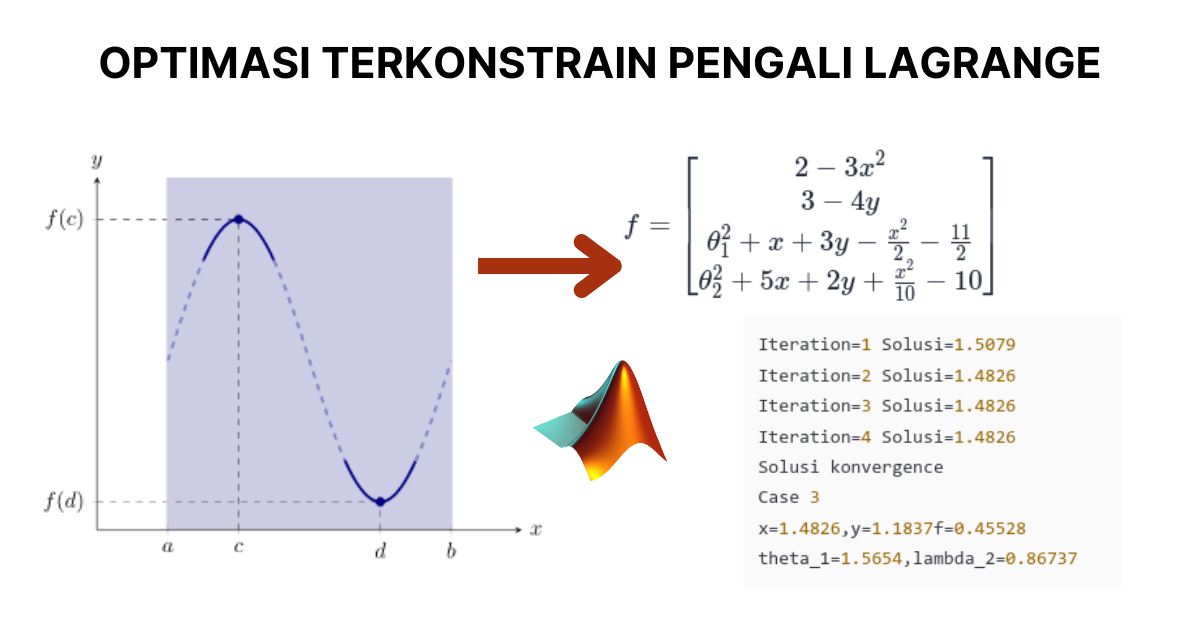
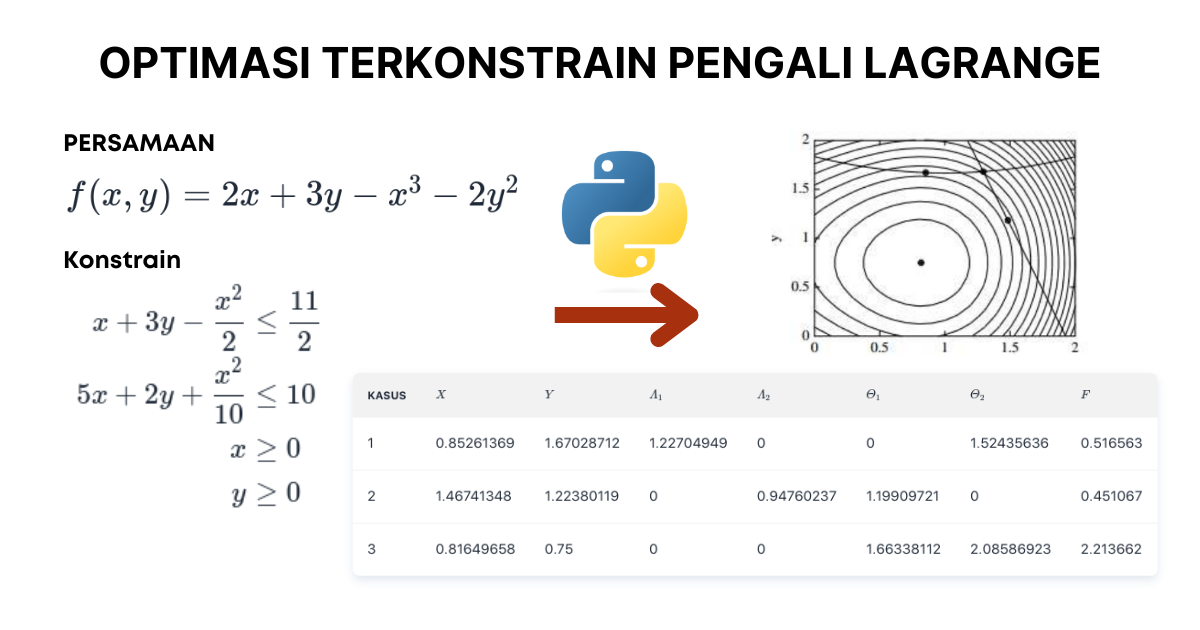
revisit optimasi terkonstrain

Changed region(s): [[0.0308, 0.2111, 0.9558, 0.9048], [0.8942, 0.754, 0.9558, 0.8143]]

diff --git a/_posts/optimasi-terkonstrain-pengali-lagrange.md b/_posts/optimasi-terkonstrain-pengali-lagrange.md
@@ -1,224 +1,205 @@
 ---
-title: 'Optimasi Terkonstrain dengan Pengali Lagrange Pada MATLAB'
+title: 'Optimasi Terkonstrain dengan Pengali Lagrange Pada Python'
 desc: 'Implementasi metode pengali lagrange dalam permasalahan optimasi terkonstrain dengan manipulasi fungsi objektif dan matriks jacobian menggunakan bahasa pemrograman MATLAB'
 tags: 'Computational Physics'
 coverImage: '/optimasi-terkonstrain/cover.png'
-date: '2023-05-19'
+date: '2023-05-29'
 author:
-  name: Naufal Dhyaudin Hibatulah
+  name: Jhagas Hana Winaya
 ogImage:
   url: '/optimasi-terkonstrain/cover.png'
 ---
 
+Optimasi terkonstrain adalah suatu metode yang digunakan untuk mencari nilai maksimum atau minimum suatu fungsi dengan mempertimbangkan adanya batasan atau kendala pada variabel-variabel yang terlibat. Batasan ini dapat berupa persamaan atau ketidaksetaraan.
+
+Salah satu teknik yang dapat digunakan dalam optimasi terkonstrain adalah metode pengali Lagrange. Metode ini melibatkan penggunaan suatu fungsi baru yang disebut fungsi Lagrange yang menggabungkan fungsi objektif dan batasan sebagai suatu kesatuan. Kemudian fungsi Lagrange tersebut dioptimalkan untuk mencari nilai optimal variabel-variabel yang terlibat.
+
+Dalam metode pengali Lagrange, terdapat suatu variabel baru yang disebut pengali Lagrange. Pengali Lagrange ini digunakan untuk mempertimbangkan batasan dalam fungsi Lagrange. Dengan cara ini, kita dapat menentukan nilai optimal dari variabel-variabel yang terlibat yang memenuhi batasan yang ada. Dalam praktiknya, metode pengali Lagrange dapat digunakan dalam berbagai masalah optimasi terkonstrain, seperti optimasi ekonomi, optimasi teknik, dan sebagainya.
+
 ## Persoalan
 
-Diberikan suatu fungsi $f(x,y)=2x+3y-x^3-2y^2$ dan beberapa konstrain yang harus terpenuhi, yaitu
+Diberikan suatu fungsi $f(x,y)=2x+3y-x^3-2y^2$ dan beberapa pertidaksamaan konstrain yang harus terpenuhi, yaitu
 
 $$
-x+3y-\frac{x^2}{2}\le\frac{11}{2}
-$$
+\begin{align}
+x+3y-\frac{x^2}{2} &\le \frac{11}{2}\\
 
-$$
-5x+2y+\frac{x^2}{10}\le10
+5x+2y+\frac{x^2}{10} &\le 10\\
+x &\ge 0\\
+y &\ge 0\\
+\end{align}
 $$
 
 Cari titik minimum fungsi tersebut pada konstrain yang diberikan.
 
-## Pembentukan Lagrangian dan Fungsi Objektif
+## ****Pembentukan Lagrangian Dari Fungsi Objektif Persoalan****
 
-Dalam kasus ini terdapat 2 *********************inequality constrain********************* sehingga konstrain tersebut perlu diubah menjadi ******************equality constrain******************. Kita bisa menganggap ada satu variabel pada tiap konstrain yang menyebabkan **********inequality********** tersebut, yaitu $\theta_1^2$ dan $\theta_2^2$. Dengan demikian, kedua konstrain tersebut menjadi
-
-$$
-\theta_1^2+x+3y-\frac{x^2}{2}-\frac{11}{2}=0
-$$
+Dalam kasus ini terdapat 2 *inequality constrain* (batas pertidaksamaan) dari persamaan 1 dan persamaan 2 sehingga batasan tersebut perlu diubah menjadi *equality constrain* (batas persamaan). Kita bisa menganggap ada satu variabel pada tiap batasan yang menyebabkan adanya pertidaksamaan tersebut, yaitu $\theta_1^2$ dan $\theta_2^2$. Dengan demikian, kedua batasan tersebut menjadi
 
 $$
-\theta_2^2+5x+2y+\frac{x^2}{10}-10=0
+\begin{align}
+\theta_1^2+x+3y-\frac{x^2}{2}-\frac{11}{2} &= 0\\
+
+\theta_2^2+5x+2y+\frac{x^2}{10}-10 &= 0
+\end{align}
 $$
 
-Lagrangian fungsi dengan kedua konstrain tersebut adalah
+Persamaan Lagrangian dari fungsi objektif serta persamaan 5 dan persamaan 6 adalah
 
 $$
+\begin{align}
 L=(2x+3y-x^3-2y^2)+\lambda_1(\theta_1^2+x+3y-\frac{x^2}{2}-\frac{11}{2})+\lambda_2(\theta_2^2+5x+2y+\frac{x^2}{10}-10)
+\end{align}
 $$
 
-Dalam rangka mendapatkan nilai optimum masing-masing parameter, turunan pertama lagrangian pada setiap parameter harus bernilai nol.
+Untuk mendapatkan nilai optimum masing-masing parameter, turunan parsial pertama dari persamaan 7 pada setiap parameter harus bernilai nol
 
 $$
-\frac{\partial L}{\partial x}=2-3x^2+\lambda_1(1-x)+\lambda_2(5+\frac{x}{5})=0
+\begin{align}
+\frac{\partial L}{\partial x} &= 2-3x^2+\lambda_1(1-x)+\lambda_2(5+\frac{x}{5}) = 0\\
+
+\frac{\partial L}{\partial y} &= 3-4y+3\lambda_1+2\lambda_2 = 0\\
+
+\frac{\partial L}{\partial \lambda_1} &= \theta_1^2+x+3y-\frac{x^2}{2}-\frac{11}{2}=0\\
+
+\frac{\partial L}{\partial \lambda_2} &= \theta_2^2+5x+2y+\frac{x^2}
+{10}-10=0\\
+
+\frac{\partial L}{\partial \theta_1} &= 2{\lambda_1}{\theta_1}=0\\
+
+\frac{\partial L}{\partial \theta_2} &= 2{\lambda_2}{\theta_2}=0
+\end{align}
 $$
 
-$$
-\frac{\partial L}{\partial y}=3-4y+3\lambda_1+2\lambda_2=0
-$$
+Pada persamaan 12 dan persamaan 13, kita bisa mengasumsikan pembuat nol persamaan-persamaan tersebut dengan beberapa kemungkinan kasus yang bisa diselesaikan dengan algoritma pemrograman
 
-$$
-\frac{\partial L}{\partial \lambda_1}=\theta_1^2+x+3y-\frac{x^2}{2}-\frac{11}{2}=0
-$$
+### Kasus Pertama
 
-$$
-\frac{\partial L}{\partial \lambda_2}=\theta_2^2+5x+2y+\frac{x^2}{10}-10=0
-$$
-
-$$
-\frac{\partial L}{\partial \theta_1}=2{\lambda_1}{\theta_1}=0
-$$
-
-$$
-\frac{\partial L}{\partial \theta_2}=2{\lambda_2}{\theta_2}=0
-$$
-
-Pada persamaan $2{\lambda_1}{\theta_1}=0$ dan $2{\lambda_2}{\theta_2}=0$, kita bisa mengasumsikan pembuat nol masing-masing *********statement********* dengan beberapa kasus, yaitu $\theta_1=\theta_2=0$, $\theta_1=\lambda_2=0$, $\lambda_1=\theta_2=0$, dan $\lambda_1=\lambda_2=0$.
-
-Fungsi objektif dalam penyelesaian dengan optimasi terkonstrain terbentuk dari 6 persamaan di atas. Pada kasus pertama, fungsi objektif dapat dibentuk dengan mensubstitusikan $\theta_1=\theta_2=0$ sehingga
-
-$$
-f=\begin{bmatrix}{2-3x^2+\lambda_1(1-x)+\lambda_2(5+\frac{x}{5})}\\{3-4y+3\lambda_1+2\lambda_2}\\{x+3y-\frac{x^2}{2}-\frac{11}{2}}\\{5x+2y+\frac{x^2}{10}-10}\end{bmatrix}
-$$
-
-Pada kasus kedua, fungsi objektif dapat dibentuk dengan mensubstitusikan $\theta_1=\lambda_2=0$ sehingga
+Pada kasus pertama, fungsi objektif dapat dibentuk dengan mensubstitusikan $\theta_1=\lambda_2=0$ pada persamaan 8-11 sehingga
 
 $$
 f=\begin{bmatrix}{2-3x^2+\lambda_1(1-x)}\\{3-4y+3\lambda_1}\\{x+3y-\frac{x^2}{2}-\frac{11}{2}}\\{\theta_2^2+5x+2y+\frac{x^2}{10}-10}\end{bmatrix}
 $$
 
-Pada kasus ketiga, fungsi objektif dapat dibentuk dengan mensubstitusikan $\lambda_1=\theta_2=0$ sehingga
+yang didefinisikan dengan fungsi objektif pada Python dengan
+
+```python
+def funcobj(x):
+    a = 2 - 3*x[0]**2 + x[2] * (1-x[0])
+    b = 3 - 4*x[1] + 3*x[2]
+    c = x[0] + 3*x[1] - ((x[0]**2)/2) - 11/2
+    d = x[3]**2 + 5*x[0] + 2*x[1] + (x[0]**2)/10 - 10
+
+    return np.array([a, b, c, d])
+```
+
+Di mana `x[0]` adalah $x$, `x[1]` adalah $y$, `x[2]` adalah $\lambda_1$ dan yang terakhir `x[3]` adalah $\theta_2$. Sehingga urutan indeks keluaran dari pemrograman yang telah dilakukan akan sama dengan indeks yang telah disebutkan sebelumnya.
+
+### Kasus Kedua
+
+Pada kasus ketiga, fungsi objektif dapat dibentuk dengan mensubstitusikan $\lambda_1=\theta_2=0$ pada persamaan 8-11 sehingga
 
 $$
 f=\begin{bmatrix}{2-3x^2+\lambda_2(5+\frac{x}{5})}\\{3-4y+2\lambda_2}\\{\theta_1^2+x+3y-\frac{x^2}{2}-\frac{11}{2}}\\{5x+2y+\frac{x^2}{10}-10}\end{bmatrix}
 $$
 
-Terakhir, pada kasus ketiga, fungsi objektif dapat dibentuk dengan mensubstitusikan $\lambda_1=\lambda_2=0$ sehingga
+```python
+def funcobj(x):
+    a = 2 - 3*x[0]**2 + x[2] * ( 5 - x[0]/5 )
+    b = 3 - 4*x[1] + 2*x[2]
+    c = x[3]**2 + x[0] + 3*x[1] - ((x[0]**2)/2) - 11/2
+    d = 5*x[0] + 2*x[1] + (x[0]**2)/10 - 10
+
+    return np.array([a, b, c, d])
+```
+
+Di mana `x[0]` adalah $x$, `x[1]` adalah $y$, `x[2]` adalah $\lambda_2$ dan yang terakhir `x[3]` adalah $\theta_1$. Sehingga urutan indeks keluaran dari pemrograman yang telah dilakukan akan sama dengan indeks yang telah disebutkan sebelumnya.
+
+### Kasus Ketiga
+
+Pada kasus ketiga, fungsi objektif dapat dibentuk dengan mensubstitusikan $\lambda_1=\lambda_2=0$ pada persamaan 8-11 sehingga
 
 $$
 f=\begin{bmatrix}{2-3x^2}\\{3-4y}\\{\theta_1^2+x+3y-\frac{x^2}{2}-\frac{11}{2}}\\{\theta_2^2+5x+2y+\frac{x^2}{10}-10}\end{bmatrix}
 $$
 
-## Penyelesaian dengan Algoritma Pemrograman
+```python
+def funcobj(x):
+    a = 2 - 3*x[0]**2
+    b = 3 - 4*x[1]
+    c = x[2]**2 + x[0] + 3*x[1] - ((x[0]**2)/2) - 11/2
+    d = x[3]**2 + 5*x[0] + 2*x[1] + (x[0]**2)/10 - 10
 
-Implementasi keempat fungsi objektif tersebut ke dalam source code adalah dengan mendefinisikan *********function funcobj(X)********* yang menerima parameter X. Untuk $\theta_1=\theta_2=0$,
-
-```matlab
-function f=funcobj(X)
-f = [(2-3*X(1)^2+X(3)*(1-X(1))+X(4)*(5+X(1)/5));(3-4*X(2)+3*X(3)+2*X(4));
-    (X(1)+3*X(2)-X(1).^2/2-5.5);(5*X(1)+2*X(2)+X(1).^2/10-10)];
-end
+    return np.array([a, b, c, d])
 ```
 
-Untuk $\theta_1=\lambda_2=0$,
+Di mana `x[0]` adalah $x$, `x[1]` adalah $y$, `x[2]` adalah $\theta_1$ dan yang terakhir `x[3]` adalah $\theta_2$. Sehingga urutan indeks keluaran dari pemrograman yang telah dilakukan akan sama dengan indeks yang telah disebutkan sebelumnya.
 
-```matlab
-function f=funcobj(X)
-f = [(2-3*X(1)^2+X(3)*(1-X(1)));(3-4*X(2)+3*X(3));
-    (X(1)+3*X(2)-X(1).^2/2-5.5);(X(4)+5*X(1)+2*X(2)+X(1).^2/10-10)];
-end
+## Program Untuk Menyelesaikan Permasalahan Optimasi Terkonstrain
+
+### Penyiapan Awal
+
+Untuk melakukan pemrograman, didefinisikan banyak variabel yang belum diketahui pada `nvar` sebanyak 4 variabel yang belum diketahui. Setelah itu kita masukkan `1` sebagai nilai awal dari variabel yang belum diketahui. Di sini kita akan melakukan **maksimal** 30 iterasi, apabila nilai keluaran masih lebih besar dari toleransi sebesar `1e-6`.
+
+```python
+nvar = 4
+x = np.zeros([nvar, nvar])
+x[0,:] = [1, 1, 1, 1]
+
+niter=30
+tol=1e-6
 ```
 
-Untuk $\lambda_1=\theta_2=0$,
+### Fungsi Matriks Jacobian
 
-```matlab
-function f=funcobj(X)
-f = [(2-3*X(1)^2+X(4)*(5+X(1)/5));(3-4*X(2)+2*X(4));
-    (X(3)+X(1)+3*X(2)-X(1).^2/2-5.5);(5*X(1)+2*X(2)+X(1).^2/10-10)];
-end
+Dibuat fungsi Python `jacobian` yang menghitung matriks Jacobian dari vektor masukan yang diberikan, menggunakan metode selisih. Vektor masukan diteruskan ke fungsi objektif `funcobj` yang disesuaikan dengan masing-masing kasus, yang akan mengembalikan vektor dengan ukuran yang sama dengan vektor masukan. Matriks Jacobian dihitung secara numerik dengan mengevaluasi fungsi pada setiap komponen vektor masukan, kemudian menghitung turunan terhadap komponen tersebut menggunakan ukuran selisih langkah `h`. Matriks hasilnya dikembalikan sebagai daftar dua elemen: nilai fungsi pada vektor masukan (`f0`), dan matriks Jacobian (`jac`) itu sendiri.
+
+```python
+def jacobian(x):
+    h = 1.0e-4
+    n = x.shape
+    jac = np.zeros([n[0], n[0]])
+    f0 = funcobj(x)
+
+    for i in range(n[0]):
+        temp = x[i]
+        x[i] = temp + h
+        f1 = funcobj(x)
+        x[i] = temp
+        jac[:,i] = (f1 - f0)/h
+
+    return [f0, jac]
 ```
 
-Untuk $\lambda_1=\lambda_2=0$,
+### Iterasi Utama
 
-```matlab
-function f=funcobj(X)
-f = [(2-3*X(1)^2);(3-4*X(2));
-    (X(3)+X(1)+3*X(2)-X(1).^2/2-5.5);(X(4)+5*X(1)+2*X(2)+X(1).^2/10-10)];
-end
-```
+Kode dibawah melakukan proses iteratif untuk menyelesaikan sistem persamaan menggunakan matriks Jacobian. Kode ini diinisialisasi dengan loop yang mengulang dari rentang `0` hingga `niter-1`. Dalam setiap iterasi, matriks Jacobian dihitung menggunakan fungsi `jacobian()`, dan kemudian digunakan untuk memecahkan vektor solusi `dx`. Vektor solusi baru kemudian dikurangi dari yang sebelumnya dan diteruskan ke `x[i+1,:]`. Kode kemudian memeriksa konvergensi dengan mengukur selisih absolut antara vektor solusi baru dan lama, dan jika selisihnya kurang dari nilai toleransi yang telah ditetapkan sebelumnya, kode keluar dari *loop* dan mencetak solusi yang konvergen. Jika tidak, vektor solusi baru ditambahkan ke matriks x menggunakan np.vstack().
 
-Metode optimasi terkonstrain dilakukan pada ************source code************ utama dengan memanggil ******************function jacobian(X)****************** yang menerima parameter X dan mengembalikan parameter **f0** dan matriks ***jac***. Kedua parameter tersebut akan di-*******passing******* ke dalam ************source code************  utama.
+Akhirnya, kode mencetak nomor iterasi dan solusi saat ini untuk setiap iterasi. Di mana solusi yang didapat dari program ini adalah pada iterasi yang terakhir dan urutan indeksnya akan sama dengan indeks yang telah ditetapkan pada proses membuat fungsi objektif.
 
-```matlab
-function [f0,jac]=jacobian(x)
-h = 1.0e-4;
-n = length(x);
-jac = zeros(n,n);
-f0 = funcobj(x);
-for i = 1:n
-    temp = x(i);
-    x(i) = temp + h;
-    f1 = funcobj(x);
-    x(i) = temp;
-    jac(:,i) = (f1 - f0)/h;
-end
-```
+```python
+for i in range(niter-1):
+    [f,dp] = jacobian( x[i,:] )
+    dx = np.matmul(np.linalg.inv(dp), f)
 
-```matlab
-clc;close all;clear all;
-X(1,:) = [1 1 1 1];
-niter=30;tol=1e-6;
-for i=1:niter-1
-    [f,dp]=jacobian(X(i,:));
-    dX=inv(dp)*f;
-    X(i+1,:)=X(i,:)'-dX;
-    fprintf('Iteration=%i Solusi=%.4f \n',i,X(i+1))
-    if abs(X(i+1,:)-X(i,:))<tol
-        r=X(i+1,:);
-        disp('Solusi konvergence')
+    x[i+1,:] = x[i,:] - dx
+
+    pesan = 'Iteration={i}: Solusi={sol}'
+    print(pesan.format(i = i, sol = x[i+1]))
+
+    if abs(x[i+1,:] - x[i,:]).any() < tol:
+        r = x[i+1, :];
+        print(r)
+        print('Solusi konvergen')
         break
-    end
-end
-x=r(1);y=r(2);theta_1=r(3);theta_2=r(4);
-f = 2*x+3*y-x^3-2*y^2;
-disp('Case 4')
-disp(['x=' num2str(x) ',y=' num2str(y),'f=' num2str(f)])
-disp(['theta_1=' num2str(theta_1) ',theta_2=' num2str(theta_2)])
+    else:
+      x = np.vstack((x, np.zeros([1,nvar])))
 ```
 
-Solusi ****case**** 1 dimana $\theta_1=\theta_2=0$
+## Hasil Optimasi Dari Ketiga Kasus
 
-```matlab
-Iteration=1 Solusi=1.3013 
-Iteration=2 Solusi=1.2941 
-Iteration=3 Solusi=1.2941 
-Iteration=4 Solusi=1.2941 
-Solusi konvergence
-Case 1
-x=1.2941,y=1.6811f=-0.18777
-lambda_1=0.82726,lambda_2=0.62127
-```
-
-Solusi ****case**** 2 dimana $\theta_1=\lambda_2=0$
-
-```matlab
-Iteration=1 Solusi=1.5079 
-Iteration=2 Solusi=1.4826 
-Iteration=3 Solusi=1.4826 
-Iteration=4 Solusi=1.4826 
-Solusi konvergence
-Case 3
-x=1.4826,y=1.1837f=0.45528
-theta_1=1.5654,lambda_2=0.86737
-```
-
-Solusi *****case***** 3 dimana $\lambda_1=\theta_2=0$
-
-```matlab
-Iteration=1 Solusi=0.8571 
-Iteration=2 Solusi=0.8526 
-Iteration=3 Solusi=0.8526 
-Iteration=4 Solusi=0.8526 
-Solusi konvergence
-Case 2
-x=0.85261,y=1.6703f=0.51656
-lambda_1=1.227,theta_2=2.3237
-```
-
-Solusi ******case****** 4 dimana $\lambda_1=\lambda_2=0$
-
-```matlab
-Iteration=1 Solusi=0.8333 
-Iteration=2 Solusi=0.8167 
-Iteration=3 Solusi=0.8165 
-Iteration=4 Solusi=0.8165 
-Solusi konvergence
-Case 4
-x=0.8165,y=0.75f=2.2137
-theta_1=2.7668,theta_2=4.3509
-```
+| Kasus | $x$ | $y$ | $\lambda_1$ | $\lambda_2$ | $\theta_1$ | $\theta_2$ | $f$ |
+| --- | --- | --- | --- | --- | --- | --- | --- |
+| 1 | 0.85261369 | 1.67028712 | 1.22704949 | 0 | 0 | 1.52435636 | 0.516563 |
+| 2 | 1.46741348 | 1.22380119 | 0 | 0.94760237 | 1.19909721 | 0 | 0.451067 |
+| 3 | 0.81649658 | 0.75 | 0 | 0 | 1.66338112 | 2.08586923 | 2.213662 |
